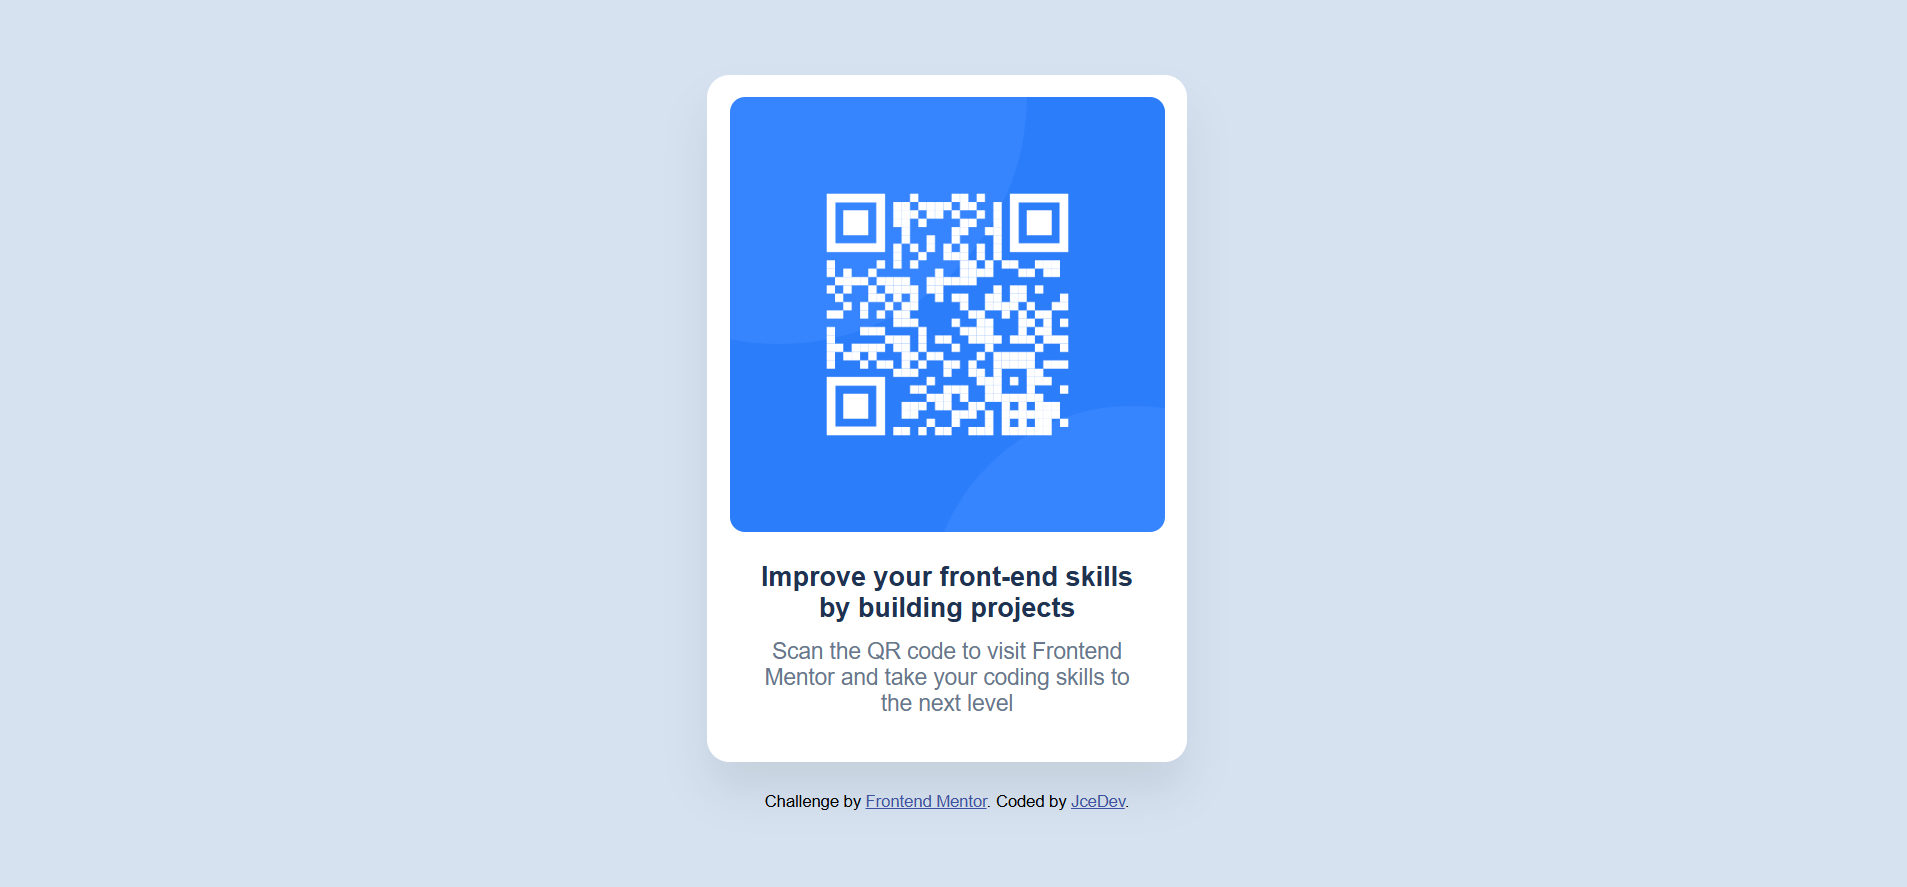
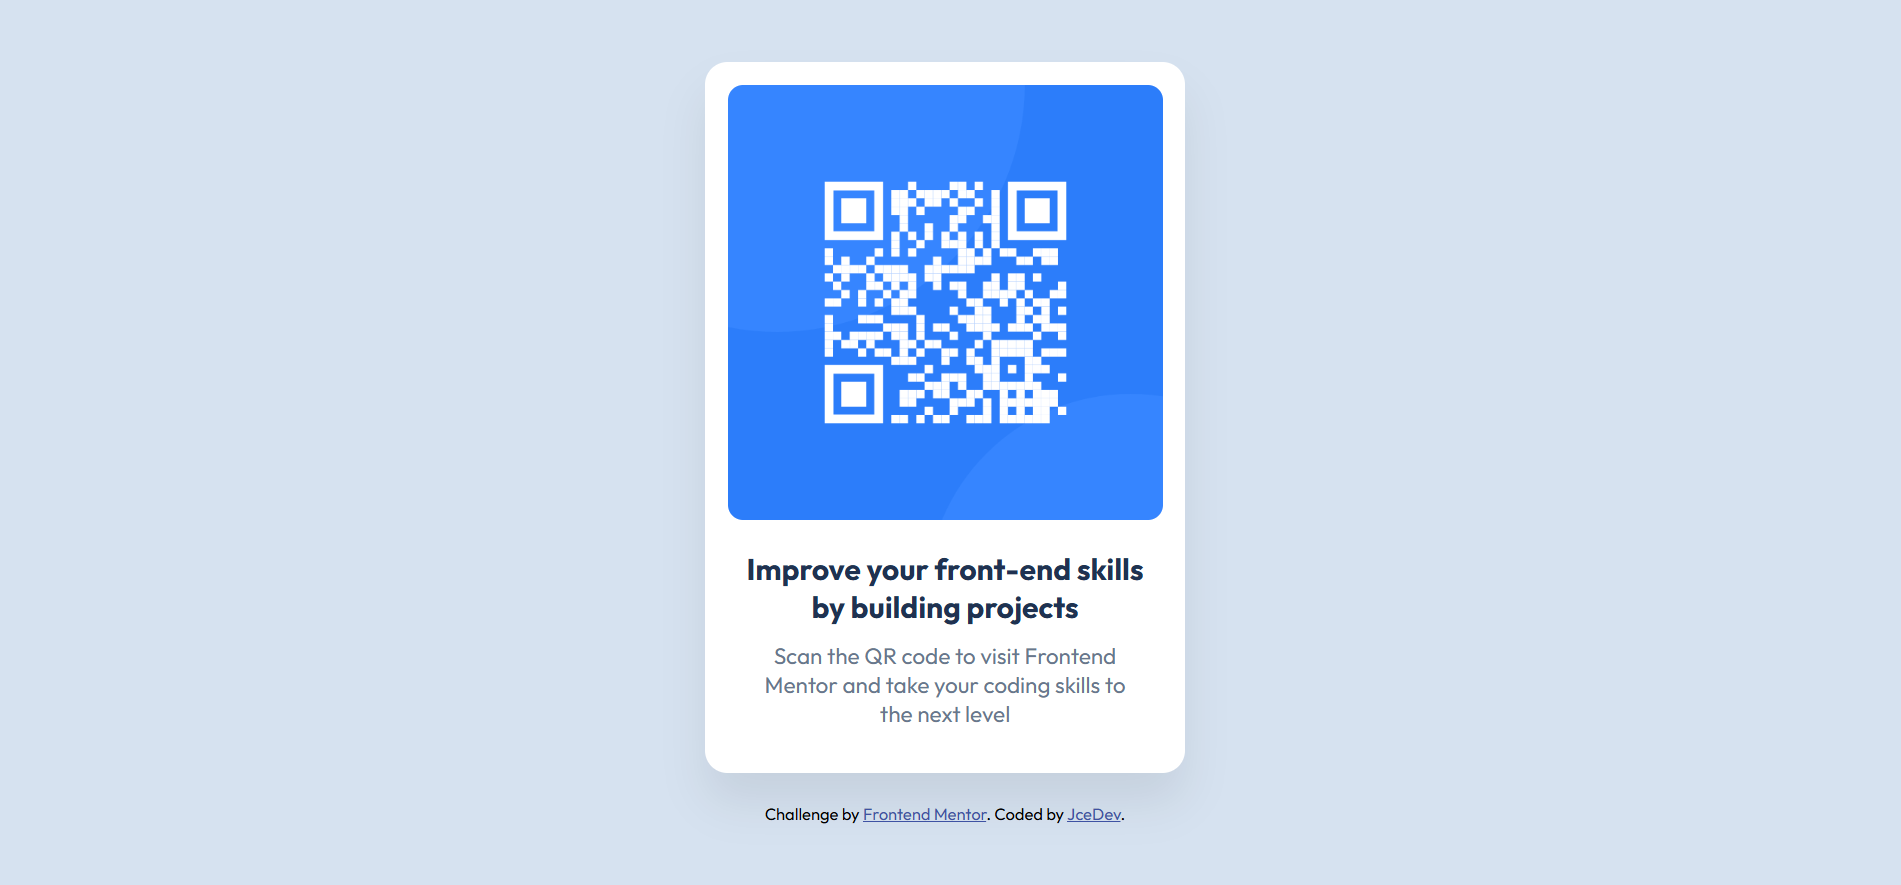
update

diff --git a/css/style.css b/css/style.css
@@ -35,12 +35,12 @@ body {
   border-radius: 10px;
 }
 .container h1 {
-  font-size: 18px;
+  font-size: 20px;
   font-weight: var(--font-weight-bold);
   color: var(--color-slate-900);
   margin-top: 20px;
-  margin-left: 15px;
-  margin-right: 15px;
+  margin-left: 10px;
+  margin-right: 10px;
 }
 .container p {
   text-align: center;  

diff --git a/css/base.css b/css/base.css
@@ -1,3 +1,4 @@
+@import url('https://fonts.googleapis.com/css2?family=Outfit:wght@100..900&display=swap');
 :root {
   --mobile-width: 375px;
   --desktop-width: 1440px;
